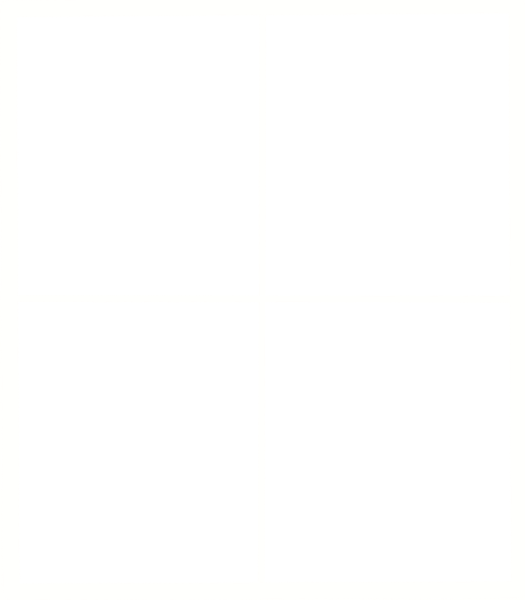
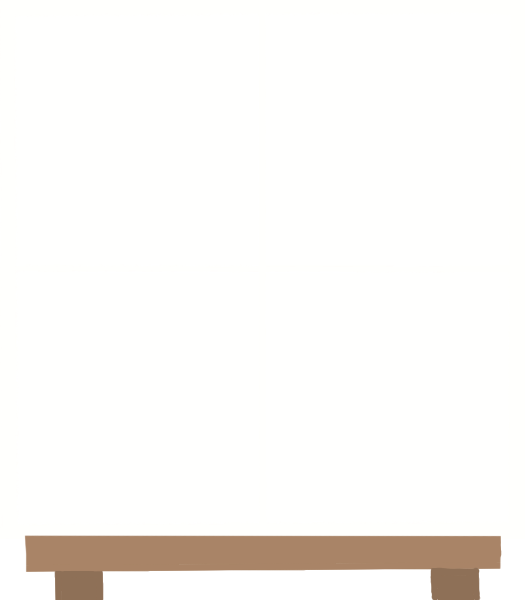
update assets, update font

Changed region(s): [[0.0305, 0.87, 0.9752, 1.0]]

diff --git a/app/src/components/WindowArea.vue b/app/src/components/WindowArea.vue
@@ -1,19 +1,18 @@
 <template>
-  <div id="windowAreaWrapper">
+  <div id="windowAreaWrapper" :data-weather-type=type :data-is-day=isDay>
     <div class="windowPane" id="topLeft">
       <CurrentTemp ref="CurrentTemp"/>
     </div>
     <div class="windowPane" id="topRight">
-      <p>Current weather: {{ this.type }}</p>
-      <p>Sun or Moon</p>
     </div>
     <div class="windowPane" id="bottomLeft">
       <MinMaxTemp type="min" :temp="minTemp"/>
       <MinMaxTemp type="max" :temp="maxTemp"/>
     </div>
     <div class="windowPane" id="bottomRight">
-      <p>Potted plant or mini person model dressed for weather</p>
+      <!-- <p>Potted plant or mini person model dressed for weather</p> -->
     </div>
+    <div class="table"></div>
   </div>
 </template>
 
@@ -33,7 +32,8 @@ export default {
       type: null,
       typeCode: null,
       minTemp: null,
-      maxTemp: null
+      maxTemp: null,
+      isDay: false
     }
   },
   methods: {
@@ -47,6 +47,7 @@ export default {
       this.typeCode = weather.data.current.weather_code;
       this.minTemp = weather.data.daily.temperature_2m_min[0];
       this.maxTemp = weather.data.daily.temperature_2m_max[0];
+      this.isDay = weather.data.current.is_day===0 ? false : true;
       switch (weather.data.current.weather_code) {
         // TODO: handle background based on weather type
         case 0:
@@ -125,42 +126,53 @@ export default {
 </script>
 
 <style>
-.windowPane {
-  /* width: 225px; */
+[data-is-day="true"] {
+  background-image: url('../assets/window.png'), url('../assets/clear day.png');
+}
+[data-is-day="false"] {
+  background-image: url('../assets/window.png'), url('../assets/clear night.png');
 }
 #windowAreaWrapper {
-  /* background-color: #ace1f2;
-  background-image: url('../assets/Clear_Day.png'); */
-
-  background-color: #46345c;
-  /* background-image: url('../assets/clear night.png'); */
-
-  background-image: url('../assets/window.png');
 
   grid-area: windowArea;
   display: grid;
   grid-template-columns: 50% 50%;
-  grid-template-rows: 50% 50%;
+  grid-template-rows: 45% 45% 10%;
   background-repeat:no-repeat;
   background-size: contain;
   background-position: center;
   width: 525px;
+  height: 100%;
+
+  grid-template-areas:
+    "topLeft topRight"
+    "bottomLeft bottomRight"
+    "table table";
 }
 #topLeft {
+  grid-area: topLeft;
   display: flex;
   align-items: center;
   justify-content: center;
 }
 #bottomLeft {
+  grid-area: bottomLeft;
   display: grid;
   grid-template-columns: 1fr 1fr;
   grid-template-rows: 1fr;
   justify-items: center;
 }
 #topRight {
+  grid-area: topRight;
   background-repeat:no-repeat;
   background-size: contain;
   background-position: center;
+}
+#bottomRight {
+  grid-area: bottomRight;
+}
+.table {
+  grid-area: table;
 }
 * {
   margin: 0;

diff --git a/app/src/App.vue b/app/src/App.vue
@@ -48,10 +48,12 @@ export default {
 </script>
 
 <style>
+@import url('https://fonts.googleapis.com/css2?family=Caveat+Brush&family=Delius&family=Gloria+Hallelujah&family=Indie+Flower&family=Mansalva&display=swap');
 #app {
   /* TODO: font */
   text-align: center;
   background-color: rgb(255, 229, 233);
+  padding: 10px 10px 0 10px;
 
   display: grid;
   /* Prevent wall decoration responsiveness */
@@ -69,7 +71,7 @@ export default {
   position: absolute;
   background: none;
   border: none;
-  padding: 10px;
+  padding: 5px;
   svg {
     fill: lightgray;
   }
@@ -79,5 +81,10 @@ export default {
   svg {
     fill: lightslategray;
   }
+}
+* {
+  font-family: "Delius", cursive;
+  font-weight: 400;
+  font-style: normal;
 }
 </style>

diff --git a/app/src/components/Clock.vue b/app/src/components/Clock.vue
@@ -24,7 +24,8 @@
   <style scoped>
     #clockWrapper {
       /* grid-area: Clock; */
-      background-color: lightyellow;
+      background-color: white;
+      height: 100%;
     }
   </style>
   

diff --git a/app/src/components/Calendar.vue b/app/src/components/Calendar.vue
@@ -13,7 +13,7 @@
   <style scoped>
     #calendarWrapper {
       /* grid-area: calendar; */
-      background-color: lightpink;
+      background-color: white;
     }
   </style>
   

diff --git a/app/src/components/CurrentTemp.vue b/app/src/components/CurrentTemp.vue
@@ -36,7 +36,7 @@
   }
   #temp {
     padding:0;
-    margin-top: 45px
+    margin-top: 40px
   }
 </style>
   
